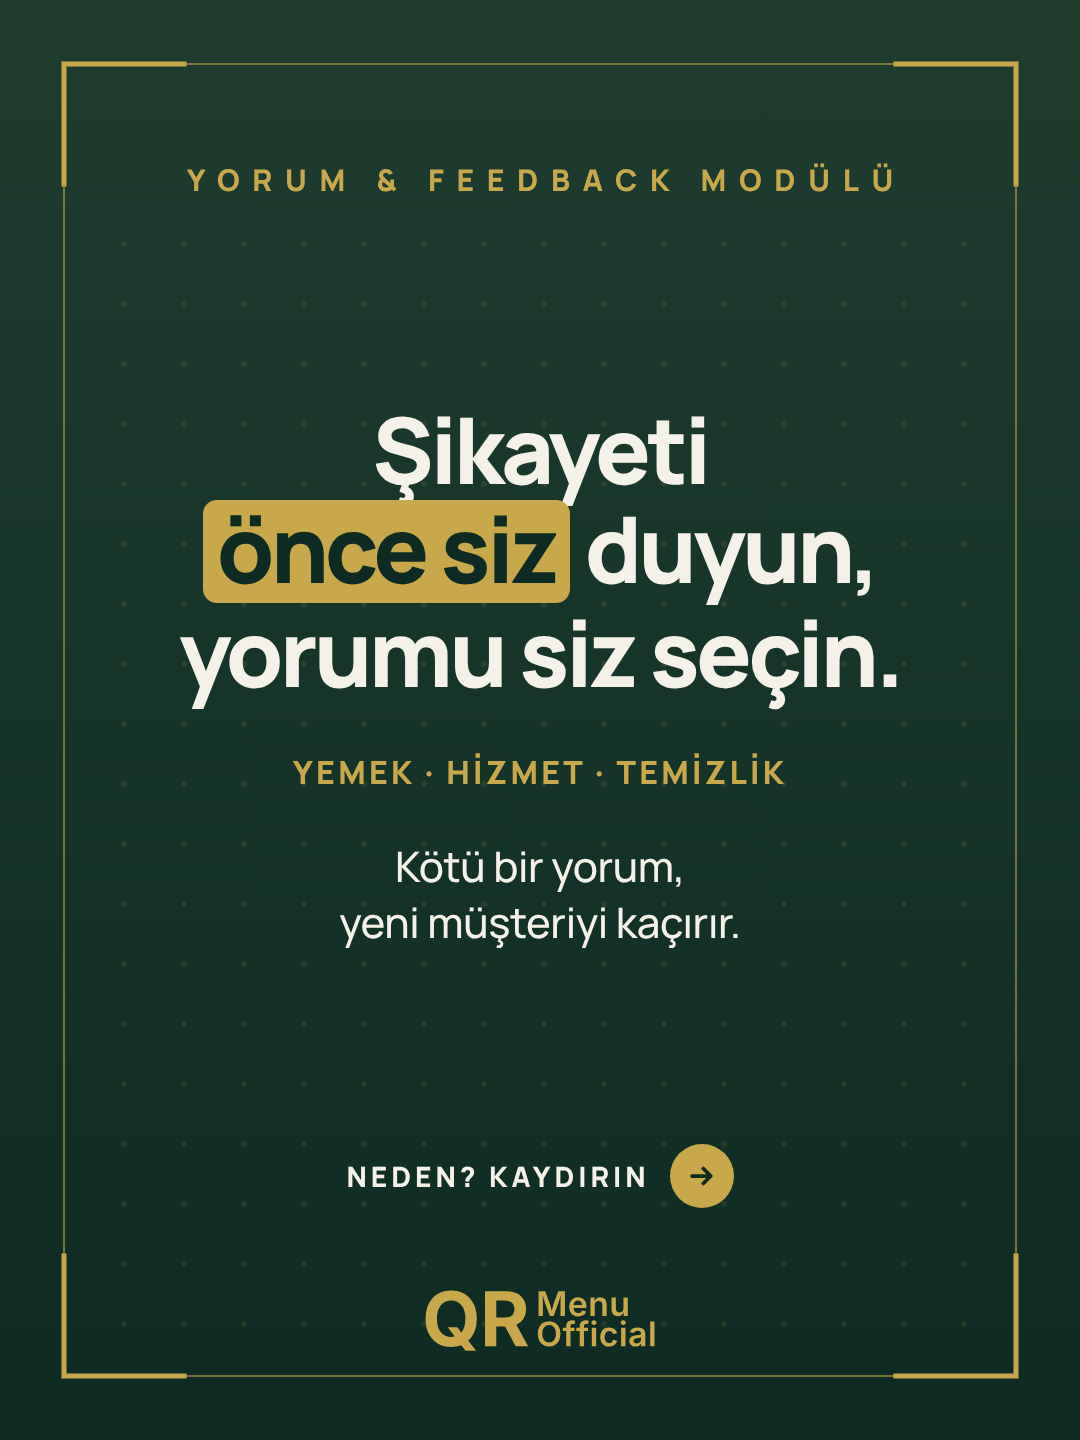
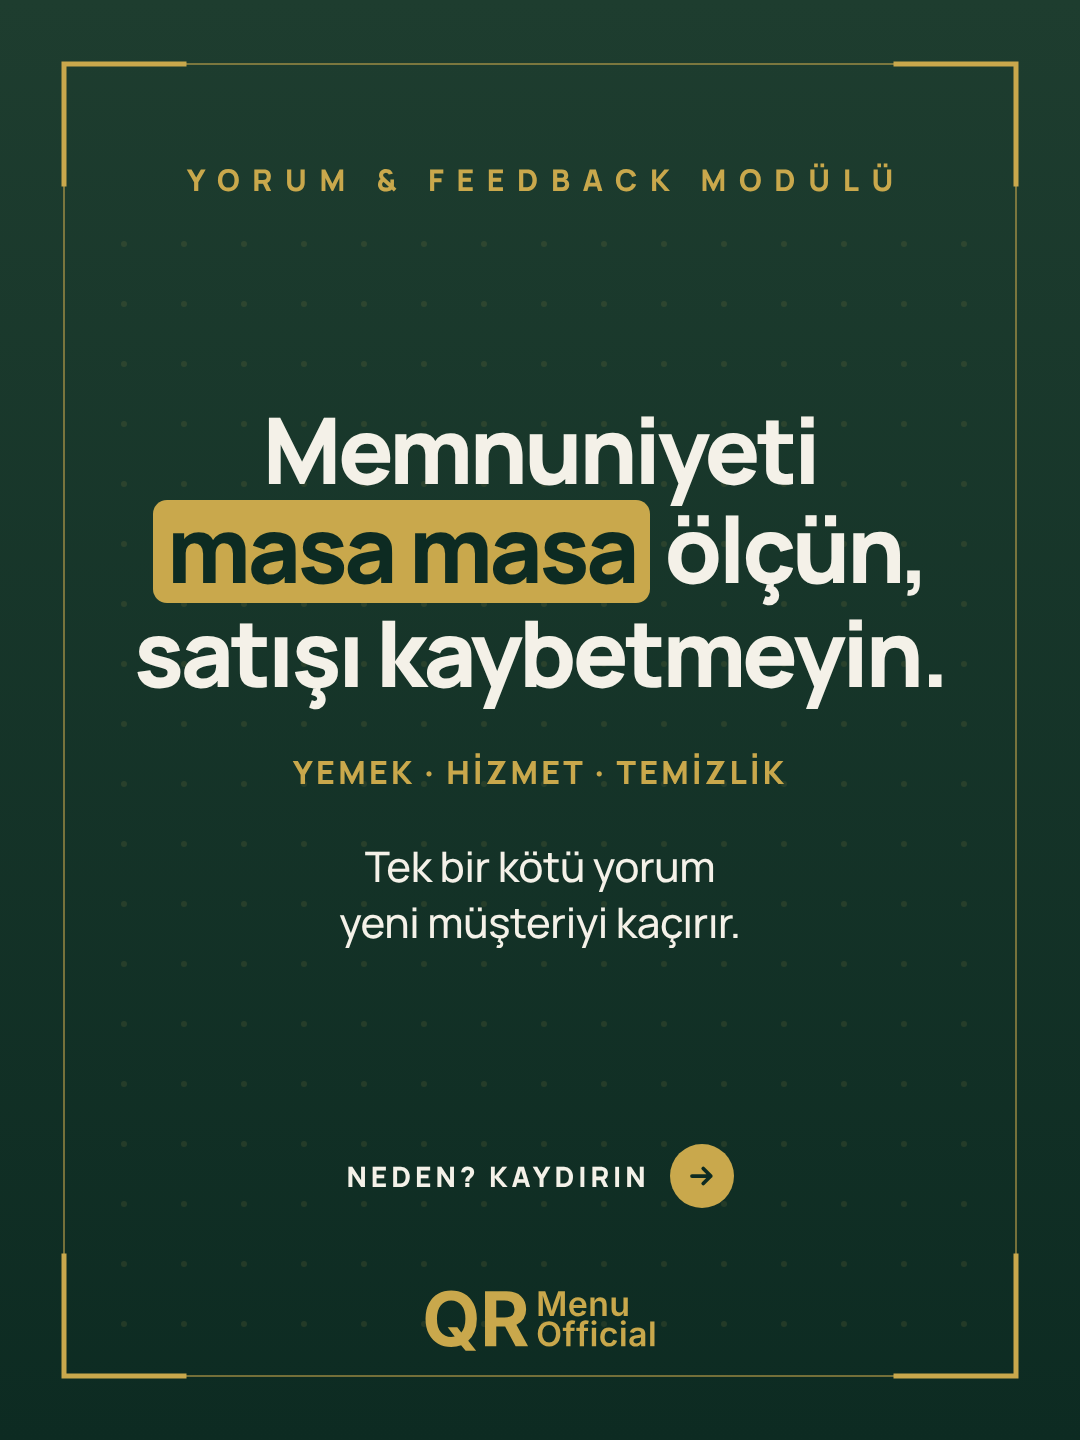
Yorum & Feedback carousel kapağı: masa masa ölçün, satışı kaybetmeyin
Claude-Session: https://claude.ai/code/session_01FBw9rVwrniVjyFvtgVdFXq

Changed region(s): [[0.1222, 0.2812, 0.8861, 0.5], [0.3361, 0.5938, 0.6722, 0.625]]

diff --git a/tools/ig-carousel/yorum-feedback.html b/tools/ig-carousel/yorum-feedback.html
@@ -175,9 +175,9 @@ const nx=(t,c)=>`<div class="nx">${t}<i>${ARW(c)}</i></div>`;
 const LAB='<div class="lab LCLS" style="font-size:30px;padding-top:34px">YORUM &amp; FEEDBACK MODÜLÜ</div>';
 const SL={
 1:{bg:'altin',html:()=>LAB.replace('LCLS','')+`
- <div class="area c" style="top:200px;bottom:290px"><div class="h" id="H" data-max="92" data-min="76">${L(['Şikayeti','[[önce siz]] duyun,','yorumu siz seçin.'])}</div>
+ <div class="area c" style="top:200px;bottom:290px"><div class="h" id="H" data-max="92" data-min="76">${L(['Memnuniyeti','[[masa masa]] ölçün,','satışı kaybetmeyin.'])}</div>
  <div class="langs">YEMEK · HİZMET · TEMİZLİK</div>
- <div class="p" id="P" data-max="42" data-min="36">${L(['Kötü bir yorum,','yeni müşteriyi kaçırır.'])}</div></div>
+ <div class="p" id="P" data-max="42" data-min="36">${L(['Tek bir kötü yorum','yeni müşteriyi kaçırır.'])}</div></div>
  ${nx('Neden? Kaydırın','#F4F1E8').replace('class="nx"','class="nx" style="bottom:232px"')}<div class="logo">${LG()}</div>`},
 2:{bg:'krem',html:()=>LAB.replace('LCLS','left')+`
  <div class="area top" style="top:236px;bottom:240px"><div class="h" id="H" data-max="84" data-min="68">${L(['Bu 3 soruyu','kendinize [[sorun:]]'])}</div>
